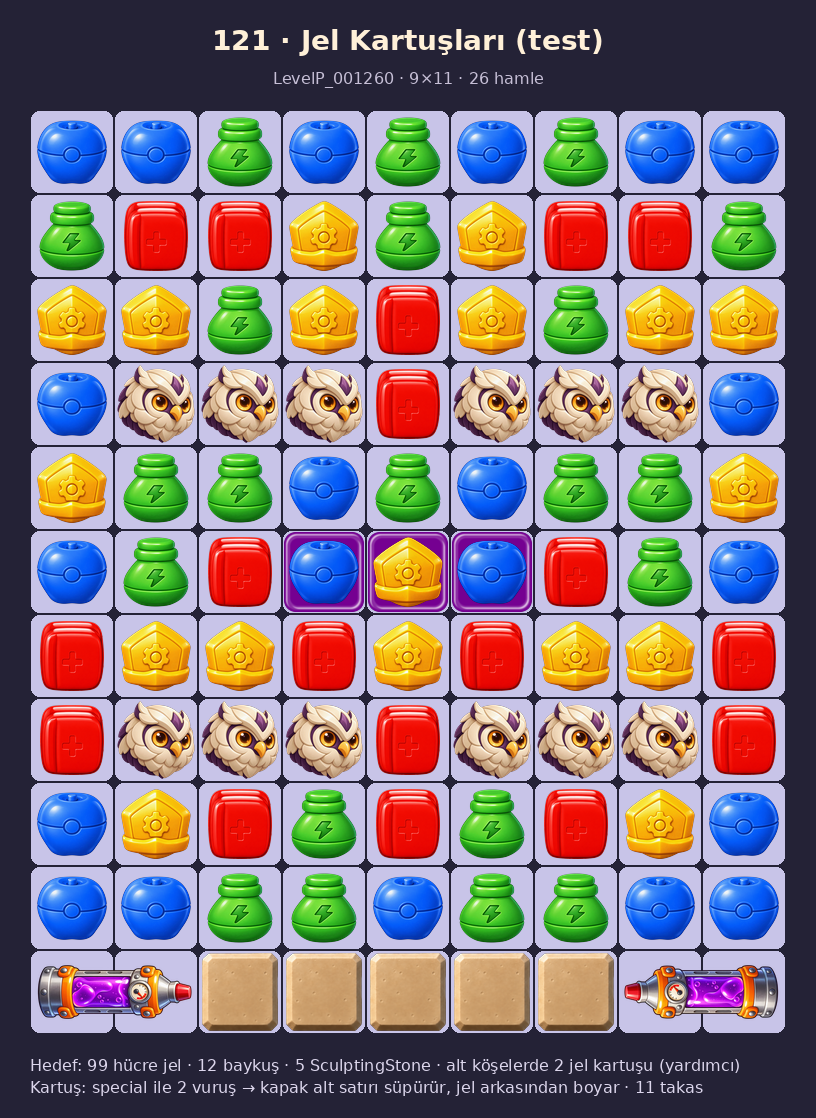
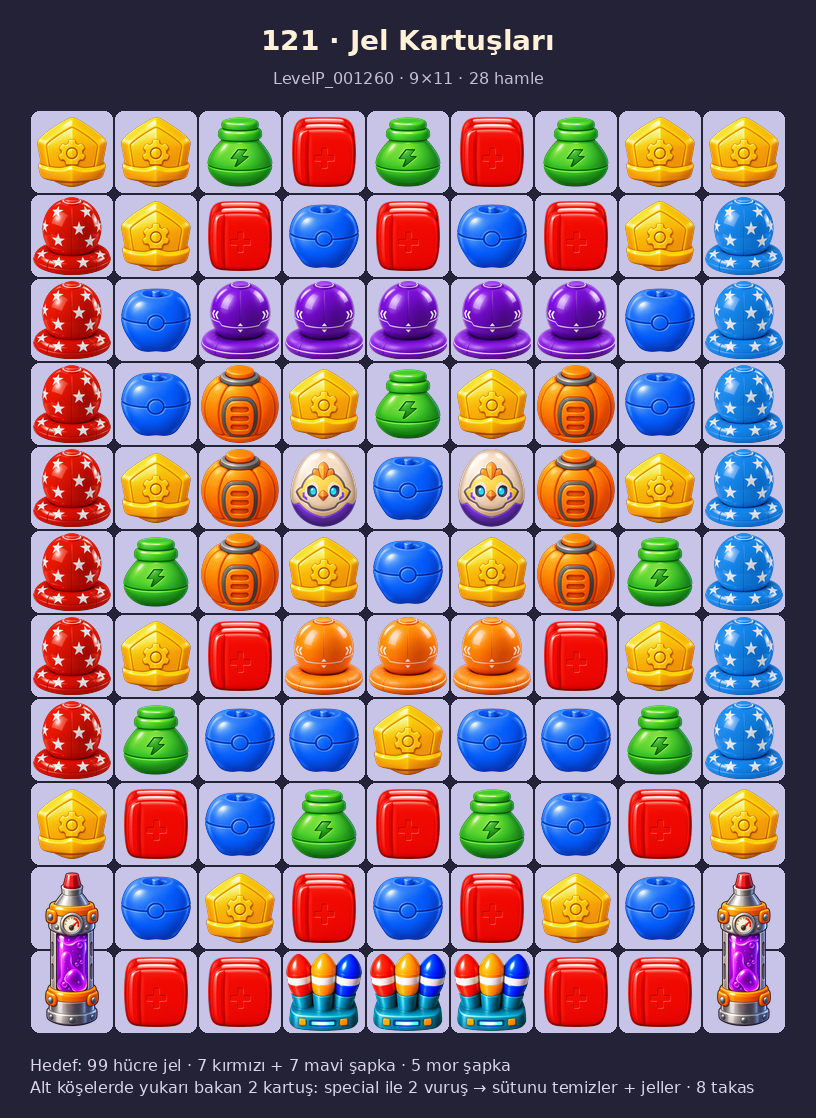
Level 121 v2: upward gel launchers clearing cap columns
GelLauncherUp in both bottom corners (1x2), each column above filled
with stacked plastic caps (red left, blue right) for the launcher shot to
wipe; a purple/orange rainbow arch with two EggBirds in the middle and
three RocketBaskets at the bottom. No starting gel: gel comes from the
launchers. Goals: 99 gel, 7 Plastic_Red, 7 Plastic_Blue, 5 plastic.
28 moves. Same asset GUID.

Claude-Session: https://claude.ai/code/session_011SM6jAozhV5f6ndTXzk3GM

diff --git a/Docs/LevelDesign/Level121-Jel-Kartuslari.md b/Docs/LevelDesign/Level121-Jel-Kartuslari.md
@@ -1,39 +1,37 @@
-# Level 121 — Jel Kartuşları (GelLauncher testi)
+# Level 121 — Jel Kartuşları (v2)
 
-`LevelCatalogPro` global 121 → `LevelP_001260.asset` (eski "ayna çiftleri" varyantının numarası, yeni asset/GUID). Tam 9×11, 26 hamle. Amaç: yeni jel fırlatıcının (kartuş) oyunda denenmesi.
+`LevelCatalogPro` global 121 → `LevelP_001260.asset`. Tam 9×11, 28 hamle. Yeni jel fırlatıcının (kartuş) tanıtım/test levelı; zor değil, eğlenceli.
 
 ## Kompozisyon
 
 ```text
 ooooooooo
+RoooooooB
+RoPPPPPoB
+RoToooToB
+RoTeoeToB
+RoToooToB
+RooQQQooB
+RoooooooB
 ooooooooo
-ooooooooo
-oHHHoHHHo
-ooooooooo
-ooogggooo
-ooooooooo
-oHHHoHHHo
-ooooooooo
-ooooooooo
->>SSSSS<<
+^ooooooo^
+^ookkkoo^
 ```
 
-- `>>` sol alt: GelLauncherRight (62, 2×1, ağız sağa). `<<` sağ alt: GelLauncherLeft (61, 2×1, ağız sola). Ortak origin sol hücre.
-- `S` SculptingStone (28, 3 vuruş) — kartuşların arasında; kapak geçerken hepsini tek atışta kırmalı.
-- `H` HelmetPorcelain, `g` açık jel (orta 3 hücre), `o` normal taş.
-
-## Test edilecekler
-
-1. Kartuş yalnız special ile hasar alıyor mu; 1. vuruşta çatlak görsele geçiş ve sarsıntı.
-2. 2. vuruşta kapak ağızdan doğru yöne fırlıyor mu; yolundaki SculptingStone'lar tamamen kırılıyor mu.
-3. Kapak karşıdaki kartuşa çarpınca onu kırıp **zincirleme** ateşliyor mu (karşı yöne ikinci atış).
-4. Jel kapağın ~2 hücre gerisinden geliyor mu; alt satır ve kartuş hücreleri jelleniyor mu; jel sayacı düşüyor mu.
-5. Atış sırasında board akışı/level sonu beklemesi düzgün mü.
+- `^` alt köşelerde **yukarı bakan** iki kartuş (GelLauncherUp, 59, 1×2). Special ile 2 vuruşta kırılınca kapak kendi sütununu baştan sona süpürür, jel arkasından sütunu boyar.
+- `R` (sol sütun) 7 Plastic_Red, `B` (sağ sütun) 7 Plastic_Blue: kartuş atışının tek seferde sileceği renkli şapka sütunları.
+- Ortada gökkuşağı kemeri: `P` mor şapka tepe (5), `T` PlasticTwoStage kenarlar (6), `Q` turuncu şapka taban (3); kemerin içinde iki EggBird `e` (yardımcı).
+- `k` altta üç RocketBasket (yardımcı). `o` normal taş.
+- Başlangıçta açık jel yok: jel yalnız kartuşlardan gelir, sonra bulaşık taşlarla yayılır.
 
 ## Hedefler
 
-99 hücre jel, 12 HelmetPorcelain, 5 SculptingStone. Kartuşlar hedef değil.
+99 hücre jel, 7 kırmızı şapka, 7 mavi şapka, 5 mor şapka. Kartuşlar, EggBird, RocketBasket, PlasticTwoStage ve turuncu şapka hedef değil.
+
+## Revizyon
+
+v1 (yatay kartuşlar alt satırda, ortada açık jel) sade bulundu. v2: kartuşlar yukarı bakıyor, sütunları silinecek renkli şapkalarla dolu, ortada renkli kemer ve yardımcılar.
 
 ## Statik kontrol
 
-Diziler, 2×1 kartuş origin'leri, hedef adetleri ve katalog bağlantısı kontrol edildi. Hazır üçlü/2×2 yok, 11 geçerli takas. Unity'de çalıştırılmadı.
+Diziler, kartuş origin'leri (0,9) ve (8,9), hedef adetleri ve katalog bağlantısı (GUID korunarak) kontrol edildi. Hazır üçlü/2×2 yok, 8 geçerli takas. Unity'de çalıştırılmadı.
